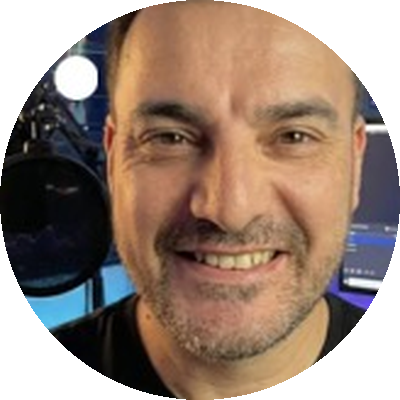
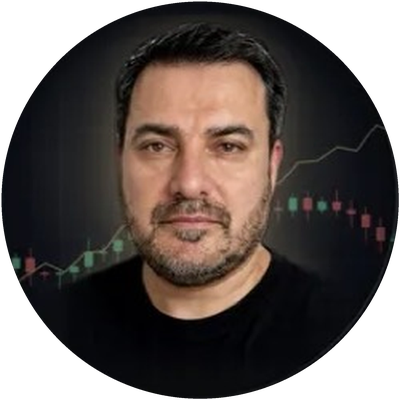
Foto nueva de Lean en la tarjeta de Instagram (37 · 3.823 · 13) y Reel P27 v3 con su grabación (guion v3b de Rocío, página vertical)
Claude-Session: https://claude.ai/code/session_01AR37SCZwL8ArnC57M8ca7G

diff --git a/produccion/p27-coinglass/reel/reel-v3.html b/produccion/p27-coinglass/reel/reel-v3.html
@@ -1,0 +1,178 @@
+<!doctype html>
+<html lang="es"><head><meta charset="utf-8">
+<title>P27 · Reel CoinGlass v3</title>
+<!-- Reel/Short vertical 1080x1920 (v3, 15/11/2026, pedido de Lean: con su grabación de CoinGlass, énfasis en CoinGlass y
+     pase al video completo de YouTube). reel-v3.html?v=ig o ?v=yt. Cuadros de la grabación en ../grab/f (fuera de git;
+     sin el tramo que muestra los correos de Lean). Textos dentro de x 140–870 e y 250–1440.
+     window.cuadro(t) para herramientas/cine/render.js (devuelve una promesa). Tiempos: tiempos-v3-ig.js / tiempos-v3-yt.js. -->
+<script>const V = new URLSearchParams(location.search).get('v') || 'ig'; document.write(`<script src="tiempos-v3-${V}.js"><\/script>`);</script>
+<link href="https://fonts.googleapis.com/css2?family=Archivo:wght@700;800;900&family=IBM+Plex+Sans:wght@400;500;600;700&family=IBM+Plex+Mono:wght@500;600;700&family=Inter:wght@500;800&display=block" rel="stylesheet">
+<style>
+  :root { --n1:#071426; --n2:#0d2142; --o1:#e2c68c; --o2:#c7a35e; --o3:#8e7140; --t1:#ecf1f9; --t2:#a3b5d1; --v:#3dd68c; --r:#ff6b6b; --b:#274a80; }
+  * { margin:0; padding:0; box-sizing:border-box; }
+  html, body { width:1080px; height:1920px; overflow:hidden; background:var(--n1); font-family:'IBM Plex Sans', sans-serif; color:var(--t1); }
+  #fondo { position:absolute; inset:0; background:
+    linear-gradient(rgba(39,74,128,.14) 1px, transparent 1px) 0 0/60px 60px,
+    linear-gradient(90deg, rgba(39,74,128,.14) 1px, transparent 1px) 0 0/60px 60px,
+    radial-gradient(ellipse at 70% 10%, #163a6e 0%, transparent 55%), linear-gradient(170deg, var(--n2), var(--n1) 70%); }
+  .oro { background:linear-gradient(180deg,var(--o1),var(--o2) 55%,var(--o3)); -webkit-background-clip:text; background-clip:text; color:transparent; }
+  #logo { position:absolute; left:140px; top:150px; height:62px; }
+  #titulo { position:absolute; left:140px; right:210px; top:262px; font:900 78px/0.98 'Archivo'; text-transform:uppercase; letter-spacing:-.5px; }
+  #titulo .gigante { font-size:132px; letter-spacing:-2px; }
+  #chip { position:absolute; left:140px; top:462px; font:800 32px 'Archivo'; color:var(--n1); background:var(--o1); border-radius:14px; padding:8px 20px; display:none; z-index:6; }
+  #chip.rojo { background:var(--r); color:#fff; }
+  #escena3d { position:absolute; inset:0; perspective:2000px; }
+  #ventana { position:absolute; left:40px; top:540px; width:1000px; height:700px; border-radius:22px; overflow:hidden; display:none;
+    border:3px solid #3a5f9a; box-shadow:0 30px 90px rgba(0,0,0,.7); background:#fff; }
+  #ventana .cromo { position:absolute; left:0; right:0; top:0; height:48px; background:#e9edf3; display:flex; align-items:center; gap:10px; padding:0 18px; z-index:3; }
+  #ventana .cromo i { width:14px; height:14px; border-radius:50%; background:#ff5f57; } #ventana .cromo i:nth-child(2) { background:#febc2e; } #ventana .cromo i:nth-child(3) { background:#28c840; }
+  #ventana .url { margin-left:12px; flex:1; height:32px; border-radius:16px; background:#fff; font:700 22px 'IBM Plex Mono'; color:#223; display:flex; align-items:center; padding:0 16px; }
+  #vista { position:absolute; left:0; right:0; top:48px; bottom:0; overflow:hidden; background:#fff; }
+  #lienzo { position:absolute; left:0; top:0; width:1908px; height:970px; transform-origin:0 0; }
+  #lienzo img { width:1908px; height:970px; display:block; }
+  .tapa { position:absolute; background:#f7f8fa; display:none; }
+  #marco { position:absolute; border:6px solid var(--o1); border-radius:14px; box-shadow:0 0 0 9999px rgba(7,20,38,.42), 0 0 34px rgba(226,198,140,.85); display:none; }
+  #etq { position:absolute; display:none; font:800 40px 'Archivo'; color:var(--n1); background:var(--o1); padding:10px 22px; border-radius:12px; box-shadow:0 10px 30px rgba(0,0,0,.5); white-space:nowrap; z-index:6; }
+  canvas#cv { position:absolute; left:0; top:0; z-index:4; }
+  .sello { position:absolute; left:150px; top:820px; font:900 84px/1 'Archivo'; text-transform:uppercase; color:var(--r); border:9px double var(--r); padding:18px 32px; transform:rotate(-6deg); opacity:0; background:rgba(40,4,6,.55); text-align:center; z-index:6; }
+  #nota7 { position:absolute; left:140px; right:210px; top:1120px; font:700 44px/1.25 'IBM Plex Sans'; text-align:center; display:none; z-index:6; }
+  #sub { position:absolute; left:140px; right:210px; top:1286px; text-align:center; font:700 56px/1.18 'IBM Plex Sans'; text-shadow:0 4px 14px rgba(0,0,0,.95); z-index:8; }
+  #sub span { color:rgba(236,241,249,.35); } #sub span.on { color:var(--t1); } #sub span.k { color:var(--o1); }
+  #cierre { position:absolute; left:70px; right:70px; top:620px; display:none; z-index:6; }
+  .tarjeta { background:rgba(14,16,22,.94); border:2px solid rgba(226,183,74,.45); border-radius:34px; padding:40px; box-shadow:0 30px 80px rgba(0,0,0,.7); font-family:Inter; }
+  .tarjeta .fila { display:flex; align-items:center; gap:30px; }
+  .tarjeta img.av { width:170px; height:170px; border-radius:50%; object-fit:cover; border:4px solid #e2b74a; background:#111; }
+  .tarjeta .nom { font:800 44px Inter; } .tarjeta .sub2 { font:500 28px Inter; color:#9aa0aa; margin-top:6px; }
+  .tarjeta .nums { display:flex; justify-content:space-around; margin:34px 0 30px; text-align:center; font:500 26px Inter; color:#9aa0aa; }
+  .tarjeta .nums b { display:block; font:800 46px Inter; color:#f5f5f2; }
+  .boton { position:relative; height:84px; border-radius:16px; font:800 36px Inter; display:flex; align-items:center; justify-content:center; overflow:hidden; }
+  .boton .b2 { position:absolute; inset:0; display:flex; align-items:center; justify-content:center; opacity:0; }
+  #yt { margin-top:30px; display:flex; align-items:center; gap:22px; background:rgba(14,16,22,.94); border:2px solid #ff3355; border-radius:26px; padding:26px 30px; font:800 36px/1.15 Inter; }
+  #yt i { width:96px; height:68px; border-radius:18px; background:#ff0033; flex:none; position:relative; }
+  #yt i:after { content:''; position:absolute; left:38px; top:20px; border-left:28px solid #fff; border-top:15px solid transparent; border-bottom:15px solid transparent; }
+  #yt small { display:block; font:500 26px Inter; color:#9aa0aa; margin-top:6px; }
+  #aviso { position:absolute; left:140px; right:210px; top:1220px; text-align:center; font:600 24px 'IBM Plex Mono'; color:var(--t2); display:none; z-index:6; }
+</style></head>
+<body>
+<div id="fondo"></div>
+<img id="logo" src="../../../marca/logo-oro.png" alt="">
+<div id="titulo"></div>
+<div id="chip"></div>
+<div id="escena3d"><div id="ventana"><div class="cromo"><i></i><i></i><i></i><div class="url" id="url">coinglass.com</div></div>
+  <div id="vista"><div id="lienzo"><img id="rec" src="../grab/f/00001.jpg" alt="">
+    <div class="tapa tapaAd" style="left:493px;top:201px;width:123px;height:115px;background:#c7c8ca"></div><div class="tapa tapaAd" style="left:1292px;top:201px;width:114px;height:115px;background:#c7c8ca"></div><div class="tapa tapaAd" style="left:616px;top:201px;width:676px;height:15px;background:#c7c8ca"></div>
+    <div class="tapa" id="tapaLeg" style="left:1715px;top:812px;width:170px;height:95px"></div>
+  </div><div id="marco"></div></div></div></div>
+<canvas id="cv" width="1080" height="1920"></canvas>
+<div class="sello" id="sello">Estimación<br>no promesa</div>
+<div id="lam02" style="position:absolute;left:140px;right:210px;top:640px;display:none;z-index:6;text-align:center"><div style="font:900 92px/1 Archivo;color:var(--r)">CIERRE<br>FORZADO</div><div style="font:700 44px/1.3 'IBM Plex Sans';margin-top:40px">de una operación hecha<br>con <span style="color:var(--o1)">dinero prestado</span></div></div>
+<div id="zona7" style="position:absolute;left:140px;top:1180px;font:700 28px 'IBM Plex Mono';color:var(--t2);display:none;z-index:6">Zona estimada 59.500–62.600 (Glassnode)</div>
+<div id="nota7">Usalo para <b style="color:var(--o1)">entender</b> el precio,<br>no para apostar.</div>
+<div class="etq" id="etq"></div>
+<div id="cierre"><div class="tarjeta" id="tarjeta"></div><div id="yt"><i></i><div id="ytxt"></div></div></div>
+<div id="aviso">Contenido educativo. No constituye recomendación de inversión. Voz generada con IA a partir de la voz de Lean.</div>
+<div id="sub"></div>
+<script>
+(function () {
+  const IG = V === 'ig', CUENTA = { pub: 37, seg: 3823, sigue: 13 };  // perfil de Lean, 15/11/2026
+  const $ = s => document.querySelector(s);
+  $('#tarjeta').innerHTML = IG ? `
+    <div class="fila"><img class="av" src="../../../herramientas/particulas/avatar.png"><div><div class="nom">leanalvarez.ok <span style="color:#3897f0">✓</span></div>
+      <div class="sub2">Lean Alvarez | Trading & Finanzas</div></div></div>
+    <div class="nums"><div><b>${CUENTA.pub}</b>publicaciones</div><div><b>${CUENTA.seg.toLocaleString('es-AR')}</b>seguidores</div><div><b>${CUENTA.sigue}</b>seguidos</div></div>
+    <div class="boton" style="background:#0095f6;color:#fff">Seguir<div class="b2" id="b2" style="background:#262a33;color:#f5f5f2">Siguiendo ✓</div></div>`
+  : `
+    <div class="fila"><img class="av" src="../../../marca/logo-navy.png" style="object-fit:contain;padding:14px;background:#fff"><div><div class="nom">Real Investors Club</div>
+      <div class="sub2">@REALinvestorsc</div></div></div>
+    <div style="height:34px"></div>
+    <div class="boton" style="background:#ff0033;color:#fff">Suscribirme<div class="b2" id="b2" style="background:#262a33;color:#f5f5f2">Suscripto ✓ 🔔</div></div>`;
+  $('#ytxt').innerHTML = IG ? 'Video completo en YouTube<small>Link en mi perfil · 4:46</small>' : 'Video completo ↓<small>Link acá abajo · 4:46</small>';
+  const B = {}; T.bloques.forEach((b, i) => { B[b.id] = b; b.fin = i + 1 < T.bloques.length ? T.bloques[i + 1].ini : T.total; });
+  const cl = (v, a = 0, b = 1) => Math.max(a, Math.min(b, v)), eo = v => 1 - Math.pow(1 - v, 3), eio = v => v < .5 ? 4 * v * v * v : 1 - Math.pow(-2 * v + 2, 3) / 2;
+  const cv = $('#cv'), x = cv.getContext('2d'), C = { o: '#e2c68c', v: '#3dd68c', r: '#ff6b6b' };
+  const tx = (id, txt, n = 1, o = 0) => { const p = B[id].palabras; for (const w of p) if (w[2].toLowerCase().replace(/[^\wáéíóúñü]/g, '').startsWith(txt) && --n === 0) return w[0] + o; return B[id].ini; };
+  // ---- grabación (coordenadas 1908x970) ----
+  const VW = 1000, VH = 652;
+  const R = { todo: [0, 58, 1908, 912], google: [720, 326, 460, 54], exito: [616, 216, 676, 594], menu: [796, 126, 106, 30], item: [662, 352, 380, 38],
+    amarilloV: [1080, 230, 560, 120], mapaV: [900, 100, 880, 800], tooltip: [1150, 370, 340, 160], caida: [900, 520, 300, 260], rebote: [960, 360, 500, 400], fondo33: [700, 200, 900, 700] };
+  const REC = {
+    '01': { tramo: [92, 92.1], vel: 0, cam: [[0, 'amarilloV'], ['juntan', 'mapaV']] },
+    '02': { tramo: [92, 92.1], vel: 0, cam: [[0, 'mapaV']], desenfoque: 1 },
+    '03': { tramo: [3.6, 6.6], vel: 1, cam: [[0, 'google', 'Continue with Google']], luego: { desde: 'sin', tramo: [18.5, 21], vel: .6, cam: [[0, 'exito']] } },
+    '04': { tramo: [22.4, 30], vel: 1, cam: [[0, 'menu', 'Liquidation'], ['elegís', 'item', 'Liquidation Heatmap']] },
+    '05': { tramo: [92, 92.1], vel: 0, cam: [[0, 'mapaV'], ['amarillas', 'amarilloV', 'Más liquidaciones']] },
+    '06': { tramo: [33, 33.1], vel: 0, cam: [[0, 'tooltip', 'Dinero en juego']] },
+    '07': { tramo: [33, 33.1], vel: 0, cam: [[0, 'rebote'], ['bajó', 'caida'], ['rebotó', 'rebote']] },
+    '08': { tramo: [33, 33.1], vel: 0, cam: [[0, 'fondo33']], desenfoque: 1 } };
+  function camara(r) { const s = Math.max(Math.min(VW / (r[2] * 1.1), VH / (r[3] * 1.2), 3.2), VW / 1908);
+    return { s, x: cl(VW / 2 - (r[0] + r[2] / 2) * s, VW - 1908 * s, 0), y: cl(VH / 2 - (r[1] + r[3] / 2) * s, VH - 970 * s, -58 * s) }; }
+  const deriva = (c, seg) => { const z = 1 + Math.min(.15, .035 * Math.max(0, seg)), s2 = c.s * z, cx = VW / 2, cy = VH / 2;
+    return { s: s2, x: cl(cx - (cx - c.x) * z, VW - 1908 * s2, 0), y: cl(cy - (cy - c.y) * z, VH - 970 * s2, -58 * s2) }; };
+  const tcam = (id, v) => typeof v === 'number' ? B[id].ini + v : tx(id, v, 1, -.15);
+  function grabacion(t, b) {
+    let cfg = REC[b.id]; const v = $('#ventana'); if (!cfg) { v.style.display = 'none'; return null; }
+    let t0 = b.ini; if (cfg.luego) { const te = tx(b.id, cfg.luego.desde, 1, -.2); if (t >= te) { cfg = cfg.luego; t0 = te; } }
+    v.style.display = 'block';
+    const ts = cl(cfg.tramo[0] + (t - t0) * cfg.vel, cfg.tramo[0], cfg.tramo[1]), n = Math.min(2702, Math.floor(ts * 15) + 1);
+    const cam = cfg.cam.map(c => [c[0] === 0 ? t0 : tcam(b.id, c[0]), R[c[1]], c[2]]);
+    let k = 0; cam.forEach((c, i) => { if (t >= c[0]) k = i; });
+    const TR = .55, q = k ? eio(cl((t - cam[k][0]) / TR)) : 1;
+    const prev = deriva(camara(cam[Math.max(0, k - 1)][1]), k ? cam[k][0] - cam[k - 1][0] - TR : 0), cur = deriva(camara(cam[k][1]), t - cam[k][0] - (k ? TR : 0));
+    const c = { s: prev.s + (cur.s - prev.s) * q, x: prev.x + (cur.x - prev.x) * q, y: prev.y + (cur.y - prev.y) * q };
+    $('#lienzo').style.transform = `translate(${c.x}px,${c.y}px) scale(${c.s})`;
+    $('#lienzo').style.filter = cfg.desenfoque ? 'blur(8px) brightness(.55)' : (b.id === '01' ? `brightness(${.6 + .4 * eo(cl(t / .8))})` : 'none');
+    $('#url').textContent = ts < 17 ? 'coinglass.com/login' : ts < 27 ? 'coinglass.com' : 'coinglass.com · Liquidation Heatmap';
+    $('#tapaLeg').style.display = ts > 26 ? 'block' : 'none';
+    document.querySelectorAll('.tapaAd').forEach(e => { e.style.display = ts >= 18 && ts < 22 ? 'block' : 'none'; });
+    const r = cam[k][1], m = $('#marco'), e = $('#etq'), a = cl((q - .8) / .2) * cl((t - cam[k][0] - (k ? 0 : .3)) / .3);
+    if (cam[k][2] && a > 0) {
+      Object.assign(m.style, { display: 'block', opacity: a, left: (r[0] * c.s + c.x - 10) + 'px', top: (r[1] * c.s + c.y - 10) + 'px', width: (r[2] * c.s + 20) + 'px', height: (r[3] * c.s + 20) + 'px' });
+      e.textContent = cam[k][2]; e.style.display = 'block'; e.style.opacity = a; const ew = e.offsetWidth;
+      e.style.left = cl(40 + r[0] * c.s + c.x + r[2] * c.s / 2 - ew / 2, 140, 870 - ew) + 'px'; e.style.top = cl(588 + (r[1] + r[3]) * c.s + c.y + 24, 600, 1150) + 'px';
+    } else { m.style.display = 'none'; e.style.display = 'none'; }
+    $('#ventana').style.transform = `rotateY(${Math.sin(t * .5) * 1.4}deg) rotateX(${1 + Math.sin(t * .37) * .6}deg)`;
+    return { n, c };
+  }
+  function caso(t, c) {  // 06: marcas sobre la grabación del 14/11
+    const X = gx => 40 + gx * c.s + c.x, Y = gy => 588 + gy * c.s + c.y;
+    const aB = eo(cl((t - tx('07', 'bajó', 1, -.1)) / .4)), aR = eo(cl((t - tx('07', 'rebotó', 1, -.1)) / .5));
+    const caja = (X0, Y0, w, h, col) => { x.fillStyle = col; x.beginPath(); x.roundRect(X0, Y0, w, h, 12); x.fill(); };
+    x.font = '900 38px Archivo'; x.textAlign = 'center';
+    if (aB > 0) { x.globalAlpha = aB; x.strokeStyle = C.r; x.lineWidth = 6; x.beginPath(); x.arc(X(1030), Y(722), 40, 0, 7); x.stroke();
+      caja(cl(X(1030) - 160, 150, 600), Y(722) + 50, 320, 62, C.r); x.fillStyle = '#fff'; x.fillText('14/11 · ~62.000', cl(X(1030), 310, 760), Y(722) + 94); x.globalAlpha = 1; }
+    if (aR > 0) { x.save(); x.globalAlpha = aR; x.strokeStyle = C.v; x.lineWidth = 7; x.setLineDash([16, 10]); x.beginPath(); x.moveTo(X(1040), Y(712)); x.lineTo(X(1040 + 70 * aR), Y(712 - 300 * aR)); x.stroke(); x.restore();
+      x.globalAlpha = aR; caja(cl(X(1110) - 40, 150, 560), Y(400) - 60, 320, 62, C.v); x.fillStyle = '#071426'; x.fillText('rebote ~66.000', cl(X(1110) - 40, 150, 560) + 160, Y(400) - 16); x.globalAlpha = 1; }
+  }
+  const TIT = { '01': '<span class="gigante oro">CoinGlass</span><br>mapa gratis', '02': '¿Qué es una<br><span class="oro">liquidación</span>?', '03': 'Entrás con<br><span class="oro">Google</span>', '04': 'Abrí el<br><span class="oro">mapa de calor</span>',
+    '05': 'Amarillo =<br><span class="oro">liquidaciones</span>', '06': 'Cuánto dinero<br><span class="oro">hay en juego</span>', '07': 'Un caso<br><span class="oro">real</span>', '08': '<span class="oro">Ojo</span>', '09': '' };
+  const CHIP = { '03': 'GRATIS · SIN PAGAR', '07': 'CASO PASADO · NO ES SEÑAL' };
+  const CLAVE = /^(cóinglas|coinglass|mapa|gratis|google|forzado|prestado|puntero|plata|amarill|liquid|franja|dinero|estimaci|promesa|entender|completo|youtube|perfil|suscribite|club|configuraci|opero)/i;
+  const grupos = []; T.bloques.forEach(b => { let g = []; b.subs.forEach((w, i) => { g.push(w); const s = b.subs[i + 1];
+    if (!s || /[.,:;]$/.test(w[2]) || g.length >= 4 || s[0] - w[1] > .3) { grupos.push(g); g = []; } }); });
+  window.EVENTOS = T.bloques.slice(1).map(b => ({ t: b.ini, s: 'whoosh' }));
+  const img = $('#rec'); let nAct = 1;
+  window.listo = document.fonts.ready.then(() => Promise.all([...document.images].map(i => i.decode().catch(() => 0))));
+  window.cuadro = function (t) {
+    let b = T.bloques[0]; T.bloques.forEach(q => { if (t >= q.ini - .05) b = q; });
+    const p = cl((t - b.ini) / (b.fin - b.ini)), ent = b.id === '01' ? 1 : eo(cl((t - b.ini) / .35));
+    x.clearRect(0, 0, 1080, 1920);
+    $('#titulo').innerHTML = TIT[b.id] || ''; $('#titulo').style.opacity = ent; $('#titulo').style.transform = `translateY(${(1 - ent) * 24}px)`;
+    const ch = CHIP[b.id]; $('#chip').style.display = ch ? 'block' : 'none'; $('#chip').textContent = ch || ''; $('#chip').className = /NO ES/.test(ch || '') ? 'rojo' : '';
+    if (ch) $('#chip').style.opacity = cl((t - b.ini - .3) / .3);
+    const g = grabacion(t, b); $('#ventana').style.opacity = ent;
+    if (g && b.id === '07') caso(t, g.c);
+    const s7 = b.id === '08'; const sa = s7 ? cl((t - b.ini - .1) / .25) : 0; $('#sello').style.opacity = sa; $('#sello').style.transform = `rotate(-6deg) scale(${2 - sa})`;
+    $('#nota7').style.display = s7 ? 'block' : 'none'; if (s7) $('#nota7').style.opacity = eo(cl((t - tx('08', 'usalo', 1, -.2)) / .4));
+    $('#lam02').style.display = b.id === '02' ? 'block' : 'none'; if (b.id === '02') $('#lam02').style.opacity = eo(cl((t - b.ini - .2) / .4));
+    $('#zona7').style.display = b.id === '07' ? 'block' : 'none';
+    const c8 = b.id === '09'; $('#cierre').style.display = c8 ? 'block' : 'none'; $('#aviso').style.display = c8 ? 'block' : 'none';
+    if (c8) { $('#cierre').style.opacity = ent; $('#cierre').style.transform = `translateY(${(1 - ent) * 60}px)`; $('#b2').style.opacity = cl((p - .75) / .05);
+      $('#yt').style.opacity = eo(cl((t - tx('09', 'youtube', 1, -.3)) / .4) + (IG ? 0 : cl((t - tx('09', 'link', 1, -.3)) / .4))); $('#aviso').style.opacity = ent; }
+    const gr = grupos.find(q => t >= q[0][0] - .05 && t < q[q.length - 1][1] + .25);
+    $('#sub').innerHTML = gr ? gr.map(w => `<span class="${t >= w[0] - .03 ? (CLAVE.test(w[2]) ? 'on k' : 'on') : ''}">${w[2]}</span>`).join(' ') : '';
+    if (g && g.n !== nAct) { nAct = g.n; img.src = `../grab/f/${String(g.n).padStart(5, '0')}.jpg`; return img.decode().catch(() => 0); }
+    return Promise.resolve();
+  };
+})();
+</script>
+</body></html>

diff --git a/produccion/p27-coinglass/reel/reel.html b/produccion/p27-coinglass/reel/reel.html
@@ -77,7 +77,7 @@
 <script>
 (function () {
   const IG = V === 'ig';
-  const CUENTA = { pub: 36, seg: 3734, sigue: 18 };  // revisión del 14/11/2026 (el token de lectura venció el 14/11)
+  const CUENTA = { pub: 37, seg: 3823, sigue: 13 };  // captura del perfil de Lean, 15/11/2026
   document.getElementById('tarjeta').innerHTML = IG ? `
     <div class="fila"><img class="av" src="../../../herramientas/particulas/avatar.png"><div><div class="nom">leanalvarez.ok <span style="color:#3897f0">✓</span></div>
       <div class="sub2">Lean Alvarez | Trading & Finanzas</div></div></div>

diff --git a/produccion/p27-coinglass/reel/guion-v3.md b/produccion/p27-coinglass/reel/guion-v3.md
@@ -1,0 +1,41 @@
+# Reel/Short P27 v3 «CoinGlass: el mapa gratis de liquidaciones» (15/11/2026)
+
+Pedido de Lean: rehacer el Reel con su grabación de CoinGlass, **énfasis en CoinGlass** y mandar a ver el video
+completo en YouTube (el tutorial v2 de 4:46). Voseo. Clon de la voz de Lean. Objetivo 40–50 s.
+En la voz: «Cóinglas», «likidación», «vidéo». En pantalla: «CoinGlass», «liquidación», «video».
+
+| # | Voz | Pantalla (grabación real de Lean) |
+|---|-----|----------|
+| 01 | Cóinglas tiene un mapa gratis que te muestra dónde miles de personas pueden quedar likidadas en Bitcoin. | Cuadro 0: mapa real (1 semana) con zoom a la franja amarilla; «COINGLASS» grande + «MAPA GRATIS» |
+| 02 | Entrás con tu cuenta de Gmail, sin depositar nada. | Login: «Continue with Google» → «logged in» |
+| 03 | Abrís el menú de likidaciones y elegís el mapa de calor. | Menú Liquidation → Liquidation Heatmap |
+| 04 | Las franjas amarillas son los precios donde se juntan más likidaciones. | Mapa de 1 semana, zoom a la franja amarilla |
+| 05 | Y si pasás el mouse por una franja, te dice cuánto dinero hay en juego. | Cartel del mouse (Price · Liquidation Leverage) |
+| 06 | El catorce de noviembre, Bitcoin bajó hasta una de esas zonas, cerca de sesenta y dos mil, y rebotó. | Mapa de 24 h: la barrida y el rebote · «CASO PASADO · NO ES SEÑAL» |
+| 07 | Ojo: es una estimación, no una promesa. Usalo para entender el precio, no para apostar. | Sello «NO ES UNA PROMESA» |
+| 08 IG | El vidéo completo, con mi configuración y cómo lo opero yo, está en mi canal de YouTube. El link está en mi perfil. | Tarjeta de Instagram (foto nueva, 3.823) + «VIDEO COMPLETO EN YOUTUBE · LINK EN MI PERFIL» |
+| 08 YT | El vidéo completo, con mi configuración y cómo lo opero yo, está en el canal. Suscribite a Real Investors Club. | Tarjeta del canal + «VIDEO COMPLETO EN EL CANAL» |
+
+---
+
+## v3b (revisado por Rocío, 15/11/2026)
+
+Cambios contra v3: gancho que nombra al espectador («Si tenés Bitcoin»); se explica en una frase qué es una likidación
+(dinero prestado, pedido de Lean en v2); «miles de personas» sale (no verificable); «Gmail» → «cuenta de Google» (coincide
+con «Continue with Google» y evita que el clon lea «Gmail» mal); «mouse» → «puntero»; el caso del 14/11 suma el rebote
+(~66.000) y la base de comparación («un caso pasado, no una regla; otras veces el precio atraviesa la zona»); en YT el
+cierre manda al link del vidéo relacionado. ~131 palabras IG / ~131 YT: ~50 s. Si el clon pasa de 50 s, recortar primero
+«con mi configuración y» de la escena 09. Textos en pantalla dentro de la zona segura (x 140–870, y 250–1440).
+
+| # | Voz | Pantalla (grabación real de Lean) |
+|---|-----|----------|
+| 01 | Si tenés Bitcoin, Cóinglas tiene un mapa gratis que te muestra dónde se juntan las likidaciones. | Cuadro 0: mapa real (1 semana) con zoom a la franja amarilla; «COINGLASS» grande + «MAPA GRATIS» |
+| 02 | Una likidación es cuando te cierran a la fuerza una operación hecha con dinero prestado. | Lámina corta: «LIQUIDACIÓN = CIERRE FORZADO · DINERO PRESTADO» sobre el mapa desenfocado |
+| 03 | Entrás con tu cuenta de Google, sin pagar nada. | Login: «Continue with Google» → «logged in» (sin mostrar correos) |
+| 04 | Abrís el menú de likidaciones y elegís el mapa de calor. | Menú Liquidation → Liquidation Heatmap |
+| 05 | Las franjas amarillas son los precios donde se juntan más likidaciones. | Mapa de 1 semana, zoom a la franja amarilla |
+| 06 | Si pasás el puntero por una franja, ves cuánta plata hay en juego. | Cartel del puntero (Price · Liquidation Leverage) |
+| 07 | El catorce de noviembre, Bitcoin bajó hasta una de esas zonas, cerca de sesenta y dos mil, y rebotó a sesenta y seis mil. | Mapa de 24 h: la barrida y el rebote · «CASO PASADO · NO ES SEÑAL» · «Zona estimada 59.500–62.600 (Glassnode)» |
+| 08 | Ojo: es un caso pasado, no una regla; otras veces el precio atraviesa la zona. Usalo para entender el precio, no para apostar. | Sello «ESTIMACIÓN · NO ES UNA PROMESA» |
+| 09 IG | El vidéo completo, con mi configuración y cómo lo opero yo, está en mi canal de YouTube. El link está en mi perfil. | Tarjeta de Instagram + «VIDEO COMPLETO EN YOUTUBE · LINK EN MI PERFIL» |
+| 09 YT | El vidéo completo, con mi configuración y cómo lo opero yo, está en el link de acá abajo. Suscribite a Real Investors Club. | Tarjeta del canal + «VIDEO COMPLETO ↓» (vidéo relacionado: el tutorial P27 de 4:46) |
